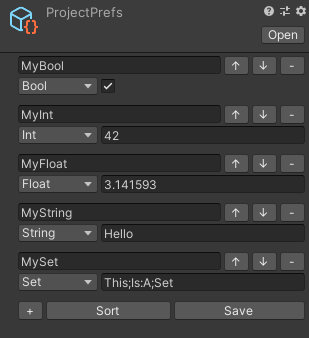
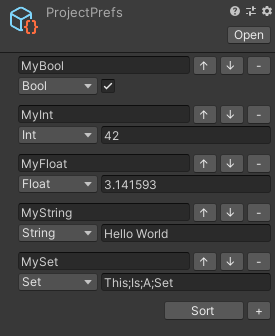
Organize.

diff --git a/Editor/ProjectPrefs.cs b/Editor/ProjectPrefs.cs
@@ -59,7 +59,7 @@ namespace LongBunnyLabs
       get
       {
         var instance = AssetDatabase.LoadAssetAtPath<ProjectPrefs>(InstancePath);
-        
+
         if (instance == null)
         {
           instance = CreateInstance<ProjectPrefs>();
@@ -117,9 +117,9 @@ namespace LongBunnyLabs
     {
       if (GetRecord(key, out Record existingRecord))
       {
-        if (existingRecord.Type == record.Type 
+        if (existingRecord.Type == record.Type
             && existingRecord.Value.Equals(record.Value))
-            return;
+          return;
 
         existingRecord.Type = record.Type;
         existingRecord.Value = record.Value;
@@ -247,6 +247,7 @@ namespace LongBunnyLabs
   {
     private static readonly int TypeWidth = 80;
     private static readonly int SmallButtonWidth = 25;
+    private static readonly int SortButtonWidth = 80;
 
     private static readonly float SaveDelay = 2.0f;
     private float m_lastDirtyTime = -1.0f;
@@ -304,11 +305,11 @@ namespace LongBunnyLabs
       {
         EditorGUILayout.BeginHorizontal();
           record.Key = EditorGUILayout.TextField(record.Key);
-          if (GUILayout.Button("↑", GUILayout.MinWidth(SmallButtonWidth), GUILayout.MaxWidth(SmallButtonWidth)))
+          if (GUILayout.Button("↑", GUILayout.Width(SmallButtonWidth)))
             recordToMoveUp = record;
-          if (GUILayout.Button("↓", GUILayout.MinWidth(SmallButtonWidth), GUILayout.MaxWidth(SmallButtonWidth)))
+          if (GUILayout.Button("↓", GUILayout.Width(SmallButtonWidth)))
             recordToMoveDown = record;
-          if (GUILayout.Button("-", GUILayout.MinWidth(SmallButtonWidth), GUILayout.MaxWidth(SmallButtonWidth)))
+          if (GUILayout.Button("-", GUILayout.Width(SmallButtonWidth)))
             recordToDelete = record;
         EditorGUILayout.EndHorizontal();
 
@@ -317,28 +318,28 @@ namespace LongBunnyLabs
             record.Type = (ProjectPrefs.Record.TypeEnum) Convert.ToInt32(EditorGUILayout.EnumPopup(record.Type, GUILayout.MinWidth(TypeWidth), GUILayout.MaxWidth(TypeWidth)));
             switch (record.Type)
             {
-            case ProjectPrefs.Record.TypeEnum.Bool:
-              bool boolValue;
-              if (!bool.TryParse(record.Value, out boolValue))
-                boolValue = false;
-              record.Value = EditorGUILayout.Toggle(boolValue).ToString();
-              break;
-            case ProjectPrefs.Record.TypeEnum.Int:
-              int intValue;
-              if (!int.TryParse(record.Value, out intValue))
-                intValue = 0;
-              record.Value = EditorGUILayout.IntField(intValue).ToString();
-              break;
-            case ProjectPrefs.Record.TypeEnum.Float:
-              float floatValue;
-              if (!float.TryParse(record.Value, out floatValue))
-                floatValue = 0.0f;
-              record.Value = EditorGUILayout.FloatField(floatValue).ToString();
-              break;
-            case ProjectPrefs.Record.TypeEnum.Set:
-            case ProjectPrefs.Record.TypeEnum.String:
-              record.Value = EditorGUILayout.TextField(record.Value);
-              break;
+              case ProjectPrefs.Record.TypeEnum.Bool:
+                bool boolValue;
+                if (!bool.TryParse(record.Value, out boolValue))
+                  boolValue = false;
+                record.Value = EditorGUILayout.Toggle(boolValue).ToString();
+                break;
+              case ProjectPrefs.Record.TypeEnum.Int:
+                int intValue;
+                if (!int.TryParse(record.Value, out intValue))
+                  intValue = 0;
+                record.Value = EditorGUILayout.IntField(intValue).ToString();
+                break;
+              case ProjectPrefs.Record.TypeEnum.Float:
+                float floatValue;
+                if (!float.TryParse(record.Value, out floatValue))
+                  floatValue = 0.0f;
+                record.Value = EditorGUILayout.FloatField(floatValue).ToString();
+                break;
+              case ProjectPrefs.Record.TypeEnum.Set:
+              case ProjectPrefs.Record.TypeEnum.String:
+                record.Value = EditorGUILayout.TextField(record.Value);
+                break;
             }
           EditorGUILayout.EndHorizontal();
         EditorGUILayout.EndHorizontal();
@@ -372,12 +373,13 @@ namespace LongBunnyLabs
         records.Remove(recordToDelete);
 
       EditorGUILayout.BeginHorizontal();
-        if (GUILayout.Button("Sort"))
+        GUILayout.FlexibleSpace();
+        if (GUILayout.Button("Sort", GUILayout.Width(SortButtonWidth)))
         {
           records.Sort((a, b) => a.Key.CompareTo(b.Key));
           records.ForEach(x => x.Sort());
         }
-        if (GUILayout.Button("+", GUILayout.MinWidth(SmallButtonWidth), GUILayout.MaxWidth(SmallButtonWidth)))
+        if (GUILayout.Button("+", GUILayout.Width(SmallButtonWidth)))
         {
           string newRecordKey = "NewRecord";
           while (records.Any(x => x.Key.Equals(newRecordKey)))
